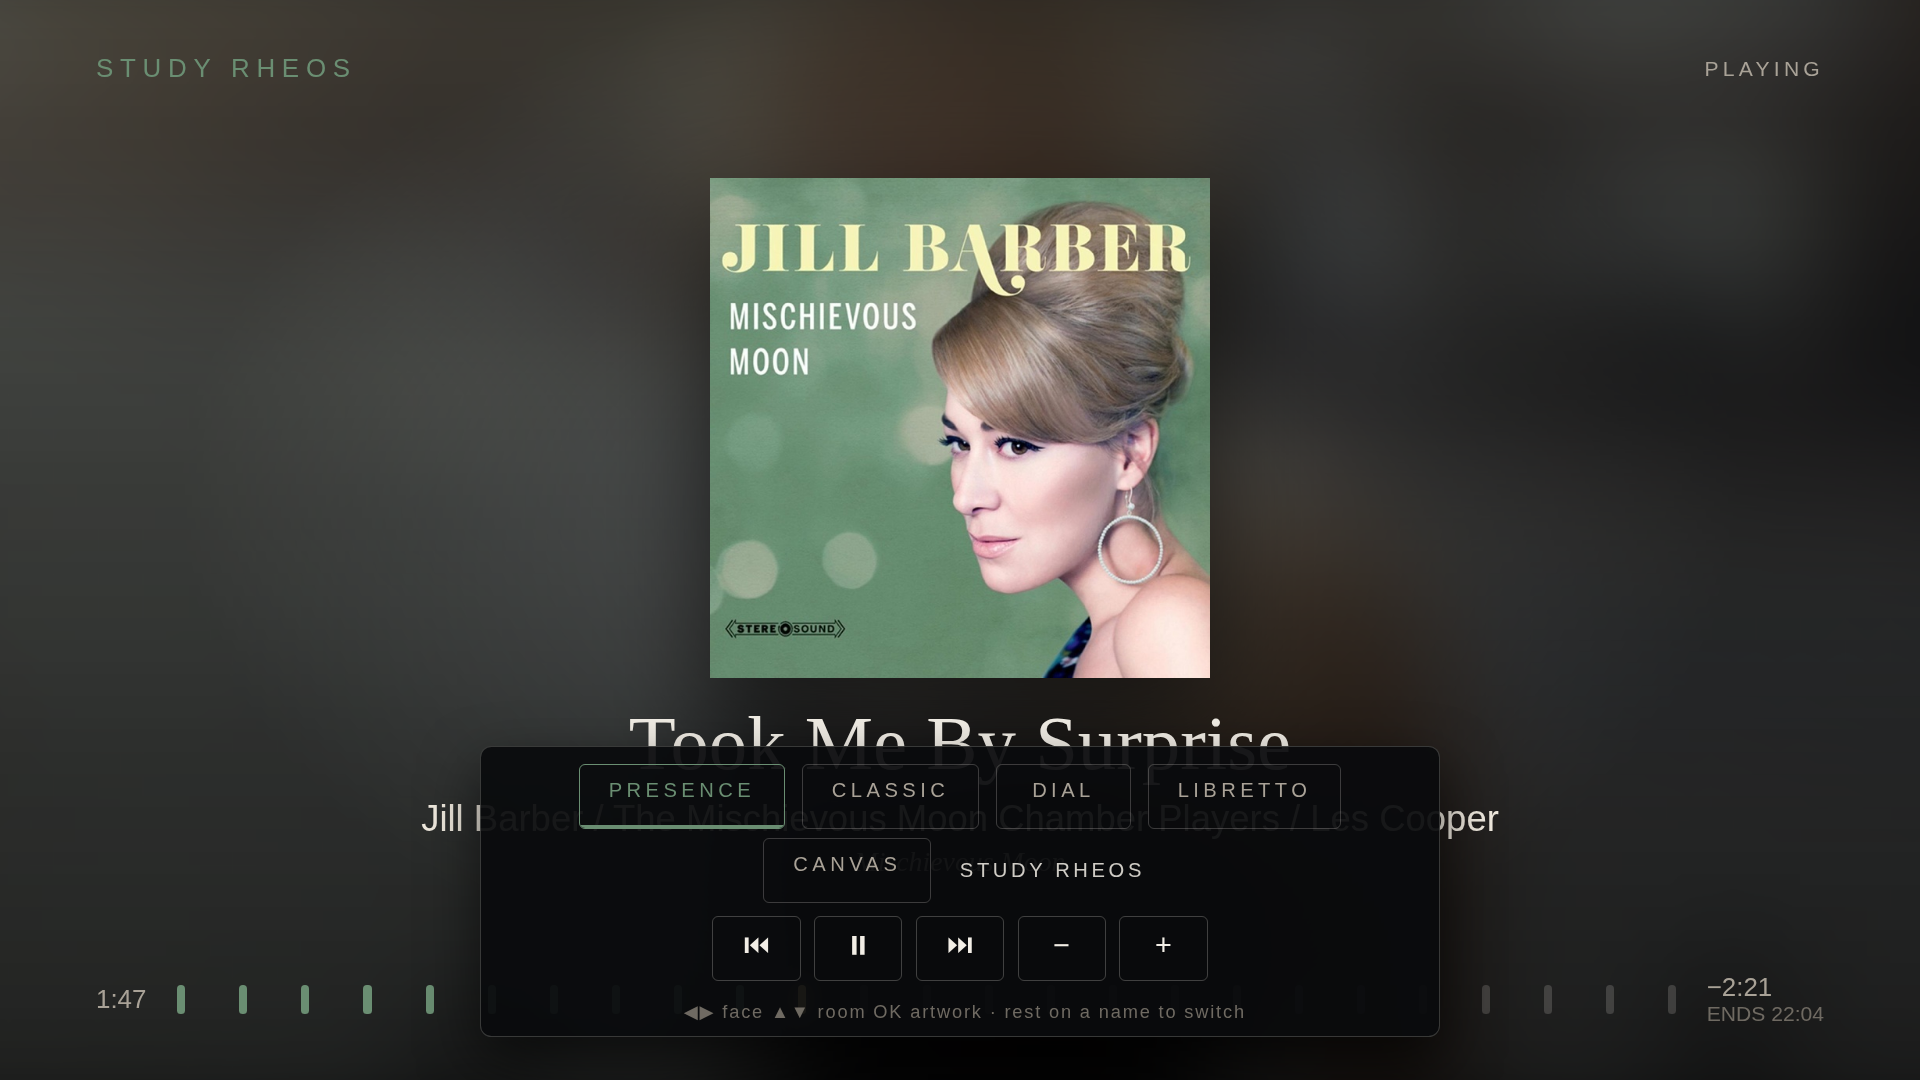
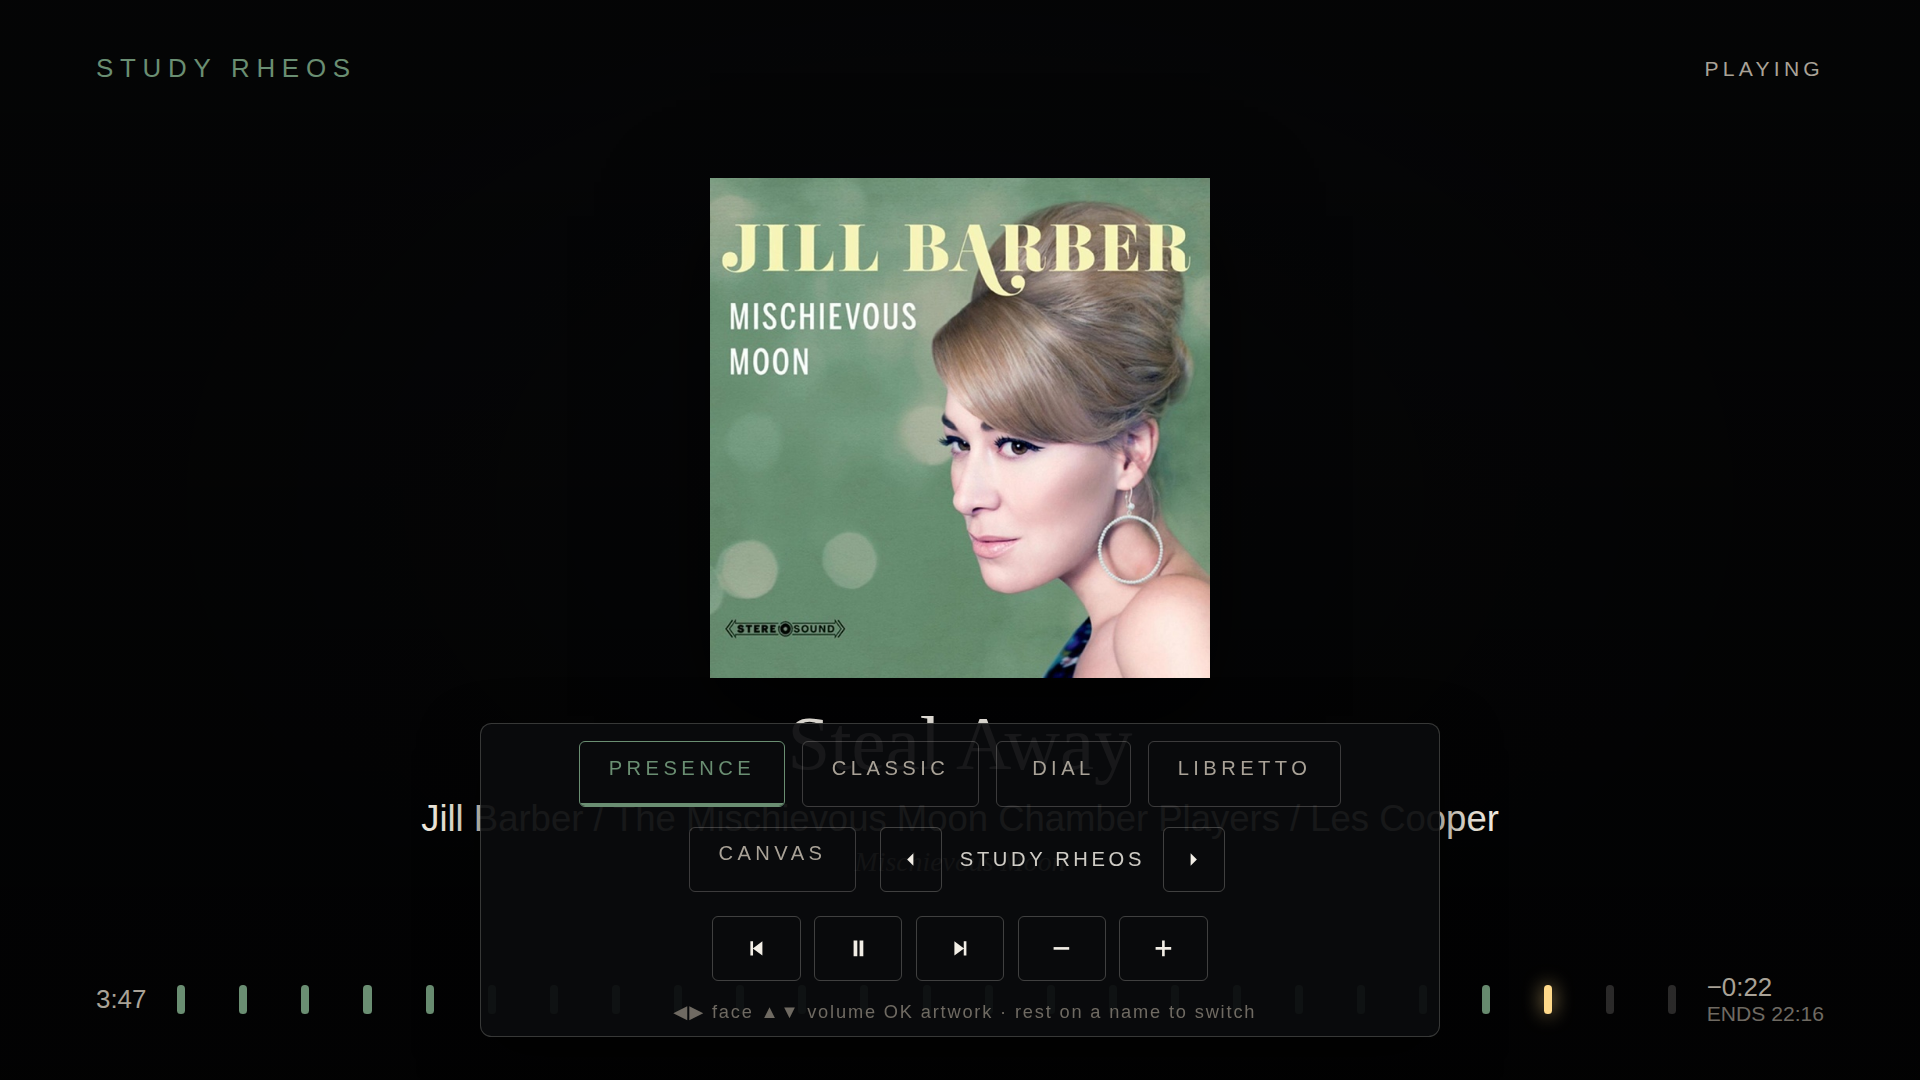
fix(face): monochrome SVG controls, and map the codes a TV remote really sends
Peter, 08-25: "pause comes up as bright blue - keep black and white simple pause
symbol."

U+23F8 and friends are EMOJI codepoints, so the browser substituted a colour emoji
font and no amount of CSS colour could touch it. The controls are now inline SVG
paths filled with currentColor, which a font cannot override: plain white, and
they scale with the button rather than with a glyph's metrics.

Also mapped the remote codes that CAN reach a browser on Tizen and webOS — Play,
PlayPause, Stop, Rewind, FastForward, and the coloured buttons, which sets usually
leave free for the page and are the last resort on a TV whose D-pad the browser
swallows. Costs nothing where a device never sends them, and ?keys=1 shows what a
given remote actually reports.

A hoisting bug of the same family as the earlier one: `glyph` was defined inside
showPicker AFTER the roomBtn that called it, so every attempt to raise the strip
threw. Now at module scope. The parse-based lint cannot see this class of fault —
it was caught by scripts/shot.mjs reporting console errors, which is why that tool
reports them.

diff --git a/assets/face.js b/assets/face.js
@@ -702,40 +702,44 @@ function showPicker() {
   nodes.push(el('em', '', '|'));
   var rooms = el('div', 'controls');
   var roomBtn = function (label, title, delta) {
-    var b = el('span', 'ctl small', label);
+    var b = el('span', 'ctl small');
+    b.appendChild(glyph(label));
     b.setAttribute('title', title);
+    b.setAttribute('aria-label', title);
     b.addEventListener('click', function (event) { event.stopPropagation(); cycleZone(delta); });
     return b;
   };
-  rooms.appendChild(roomBtn('\u2039', 'previous room', -1));
+  rooms.appendChild(roomBtn('left', 'previous room', -1));
   rooms.appendChild(el('span', 'roomchip', following ? 'following' : (zoneName.textContent || 'room')));
-  rooms.appendChild(roomBtn('\u203A', 'next room', 1));
+  rooms.appendChild(roomBtn('right', 'next room', 1));
   nodes.push(rooms);
 
   var zone = currentZone();
   var controls = el('div', 'controls');
   var button = function (label, title, enabled, onPress) {
-    var b = el('span', enabled ? 'ctl' : 'ctl off', label);
+    var b = el('span', enabled ? 'ctl' : 'ctl off');
+    b.appendChild(glyph(label));
     b.setAttribute('title', title);
+    b.setAttribute('aria-label', title);
     if (enabled) {
       b.addEventListener('click', function (event) { event.stopPropagation(); onPress(); });
     }
     return b;
   };
   var playing = zone !== null && zone.state === 'playing';
-  controls.appendChild(button('\u23EE', 'previous', zone !== null && zone.allowed.previous,
+  controls.appendChild(button('prev', 'previous', zone !== null && zone.allowed.previous,
     function () { transport('previous'); }));
-  controls.appendChild(button(playing ? '\u23F8' : '\u25B6', playing ? 'pause' : 'play',
+  controls.appendChild(button(playing ? 'pause' : 'play', playing ? 'pause' : 'play',
     zone !== null && (zone.allowed.pause || zone.allowed.play), function () { transport('playpause'); }));
-  controls.appendChild(button('\u23ED', 'next', zone !== null && zone.allowed.next,
+  controls.appendChild(button('next', 'next', zone !== null && zone.allowed.next,
     function () { transport('next'); }));
 
   // Volume: plus and minus only, no slider — a slider is a drag to miss on a TV.
   var output = volumeOutput();
   var hasVolume = output !== null && !!output.volume;
-  controls.appendChild(button('\u2212', hasVolume ? ('quieter \u00B7 ' + output.name) : 'no volume control',
+  controls.appendChild(button('minus', hasVolume ? ('quieter \u00B7 ' + output.name) : 'no volume control',
     hasVolume, function () { nudgeVolume(-1); }));
-  controls.appendChild(button('+', hasVolume ? ('louder \u00B7 ' + output.name) : 'no volume control',
+  controls.appendChild(button('plus', hasVolume ? ('louder \u00B7 ' + output.name) : 'no volume control',
     hasVolume, function () { nudgeVolume(1); }));
   nodes.push(controls);
   nodes.push(el('em', 'hint', '◀▶ face   ▲▼ volume   OK artwork   ·   rest on a name to switch'));
@@ -876,6 +880,34 @@ document.addEventListener('visibilitychange', function () {
   else fieldRunning(current === 'canvas');
 });
 
+/**
+ * SVG, not characters. U+23F8 and friends are EMOJI codepoints, so a browser
+ * substitutes a colour emoji font and the pause button arrived bright blue
+ * (Peter, 08-25: "keep black and white simple pause symbol"). A path inherits
+ * currentColor and cannot be re-coloured by a font.
+ */
+var glyph = function (name) {
+  var svg = document.createElementNS(SVG_NS, 'svg');
+  svg.setAttribute('viewBox', '0 0 24 24');
+  svg.setAttribute('class', 'glyph');
+  svg.setAttribute('aria-hidden', 'true');
+  var d = {
+    prev: 'M7 6h2.2v12H7zm10 0v12l-8-6z',
+    next: 'M17 6h-2.2v12H17zM7 6v12l8-6z',
+    play: 'M8 5.5v13l11-6.5z',
+    pause: 'M8 5.5h3.1v13H8zm5 0h3.1v13H13z',
+    minus: 'M5.5 10.9h13v2.2h-13z',
+    plus: 'M10.9 5.5h2.2v13h-2.2zM5.5 10.9h13v2.2h-13z',
+    left: 'M15 5.5 8.5 12 15 18.5z',
+    right: 'M9 5.5 15.5 12 9 18.5z',
+  }[name];
+  var path = document.createElementNS(SVG_NS, 'path');
+  path.setAttribute('d', d);
+  path.setAttribute('fill', 'currentColor');
+  svg.appendChild(path);
+  return svg;
+};
+
 /* ---------- transport ----------
  * Every gesture is a USER ACTION translated into a ROON-LED instruction: the
  * button posts to FlightDeck, FlightDeck asks the Core, and the new state arrives
@@ -960,6 +992,26 @@ function keyName(event) {
   if (key === 'AudioVolumeUp' || code === 175) return 'volup';
   if (key === 'AudioVolumeDown' || code === 174) return 'voldown';
   if (key === 'MediaStop' || code === 178) return 'stop';
+
+  /**
+   * TV remote codes. A television's own volume and channel keys are handled by
+   * its firmware and never reach a browser — that is why volume moved to the
+   * D-pad. These are the ones that CAN arrive on Tizen and webOS, mapped
+   * defensively: costing nothing if the device never sends them.
+   *
+   * Use ?keys=1 on a Face to see what a given remote actually reports.
+   */
+  if (code === 415 || code === 10252) return 'playpause';   // Tizen Play / PlayPause
+  if (code === 19 || code === 10009 && false) return 'playpause';
+  if (code === 413) return 'stop';                          // Tizen Stop
+  if (code === 417 || code === 228) return 'next';          // FastForward
+  if (code === 412 || code === 227) return 'previous';      // Rewind
+  // The coloured buttons are usually left free for the page: a useful last resort
+  // on a set whose D-pad the browser swallows.
+  if (code === 403) return 'previous';                      // red
+  if (code === 404) return 'playpause';                     // green
+  if (code === 405) return 'voldown';                       // yellow
+  if (code === 406) return 'volup';                         // blue
   return '';
 }
 

diff --git a/assets/face.css b/assets/face.css
@@ -467,7 +467,10 @@ body { font-family: "Helvetica Neue", Arial, sans-serif; color: #f2eee6; -webkit
   -webkit-justify-content: center; justify-content: center;
 }
 .picker span.ctl {
-  display: inline-block; cursor: pointer;
+  display: -webkit-inline-flex; display: inline-flex;
+  -webkit-align-items: center; align-items: center;
+  -webkit-justify-content: center; justify-content: center;
+  cursor: pointer;
   min-width: 4.6vw; min-height: 3.4vw;
   padding: 0.9vh 1.1vw; margin: 0.4vh 0.35vw;
   font-size: 1.5vw; line-height: 1.3; letter-spacing: 0;
@@ -490,3 +493,13 @@ body { font-family: "Helvetica Neue", Arial, sans-serif; color: #f2eee6; -webkit
 /* The room stepper sits with the transport, since ▲▼ now carries volume. */
 .picker span.ctl.small { min-width: 3.2vw; font-size: 1.7vw; padding: 0.9vh 0.7vw; }
 .picker span.roomchip { min-height: 3.4vw; line-height: 3.4vw; }
+
+/* Monochrome, and monochrome by construction: an SVG path inherits currentColor,
+   where a media-symbol CHARACTER gets replaced by a colour emoji font — which is
+   why the pause button arrived bright blue. */
+.picker .glyph { width: 1.5vw; height: 1.5vw; display: block; color: inherit; }
+.picker span.ctl.small .glyph { width: 1.2vw; height: 1.2vw; }
+@media (max-width: 900px) {
+  .picker .glyph { width: 5vw; height: 5vw; }
+  .picker span.ctl.small .glyph { width: 4vw; height: 4vw; }
+}
